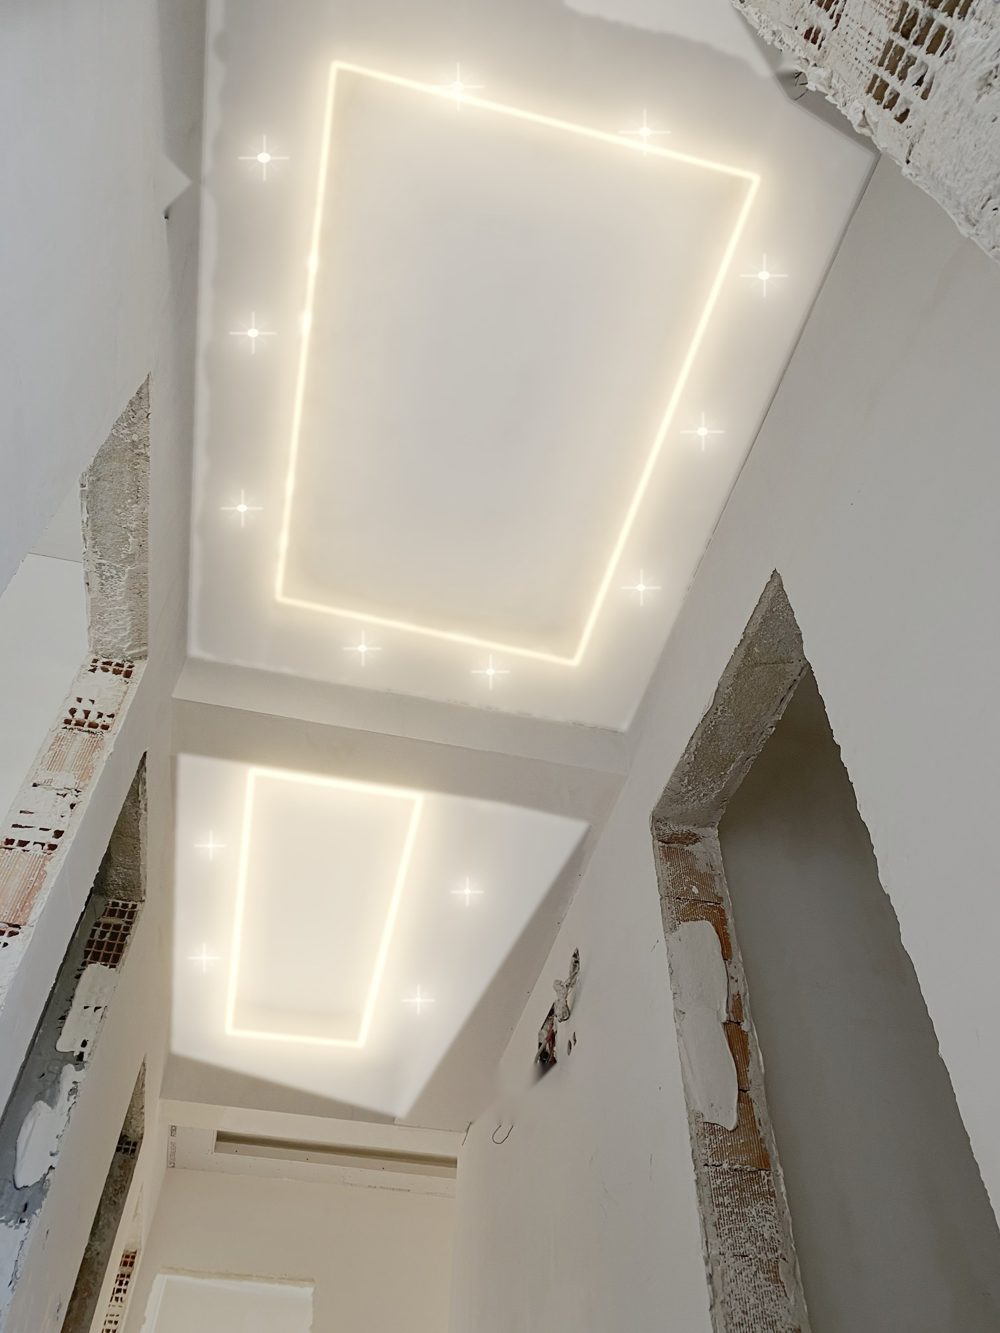
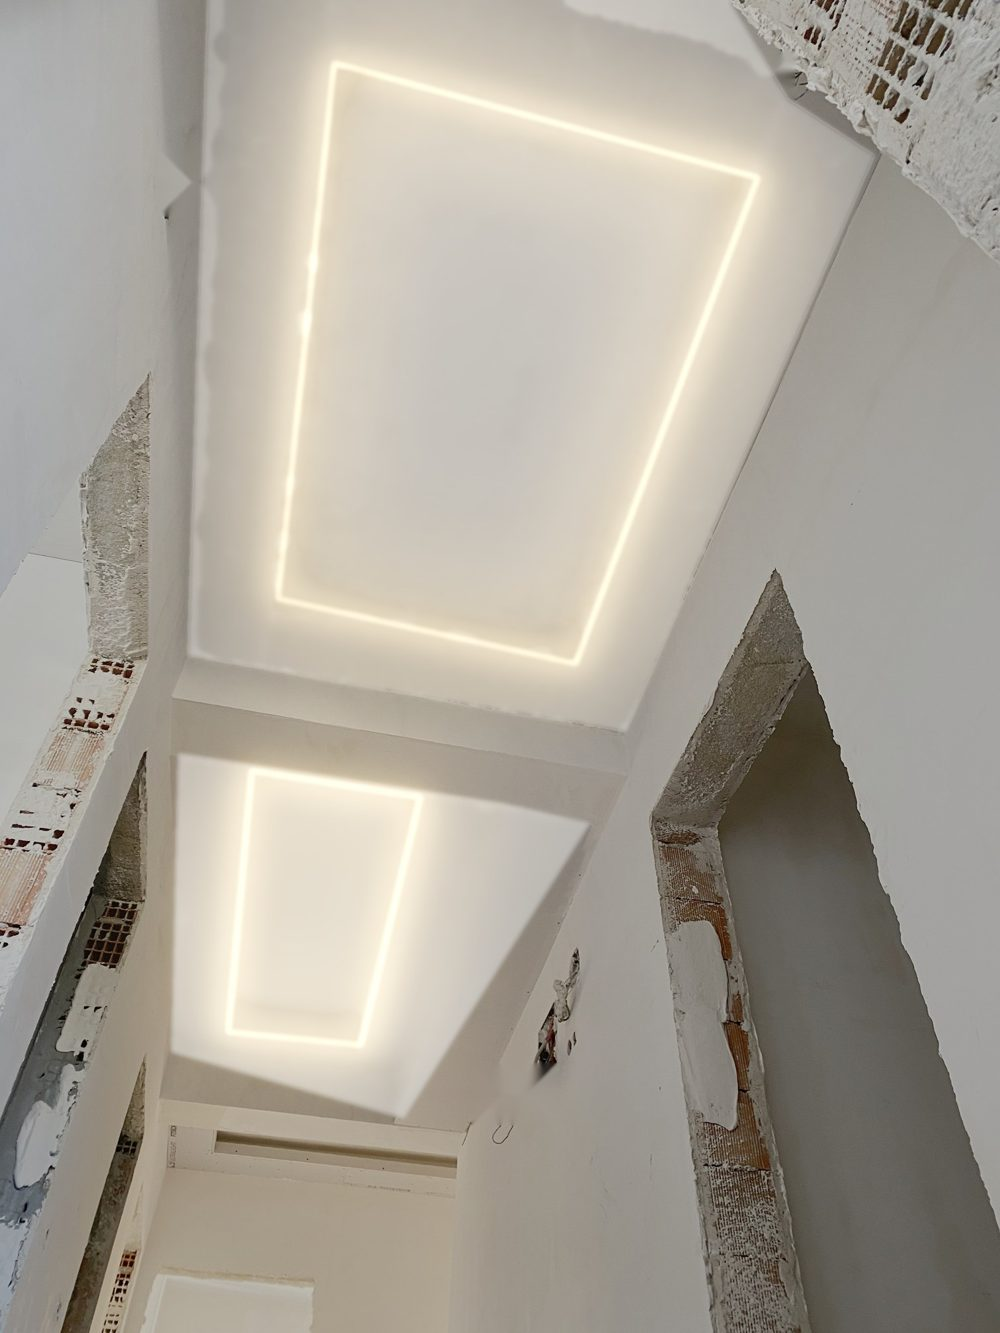
Spotlari kaldir
Claude-Session: https://claude.ai/code/session_015VcGvsygi5HMeoJagN5Jqw

diff --git a/index.html b/index.html
@@ -542,7 +542,7 @@ html{scroll-behavior:smooth}
                 <input type="range" min="0" max="100" value="50" id="osAralik" aria-label="Önce sonra">
             </div>
             <div class="os-sekme"><button type="button" class="on" data-k="koridor-gizli-led-asma-tavan">Koridor</button><button type="button" data-k="salon-gizli-led-asma-tavan">Salon</button></div>
-            <p class="os-not">Fotoğraflar gerçek işimizdir. Boyalı, ışıklı ve kristal spotlu görünüm tasarım önizlemesidir.</p>
+            <p class="os-not">Fotoğraflar gerçek işimizdir. Boyalı ve LED ışıklı görünüm tasarım önizlemesidir.</p>
         </div>
     </section>
 
